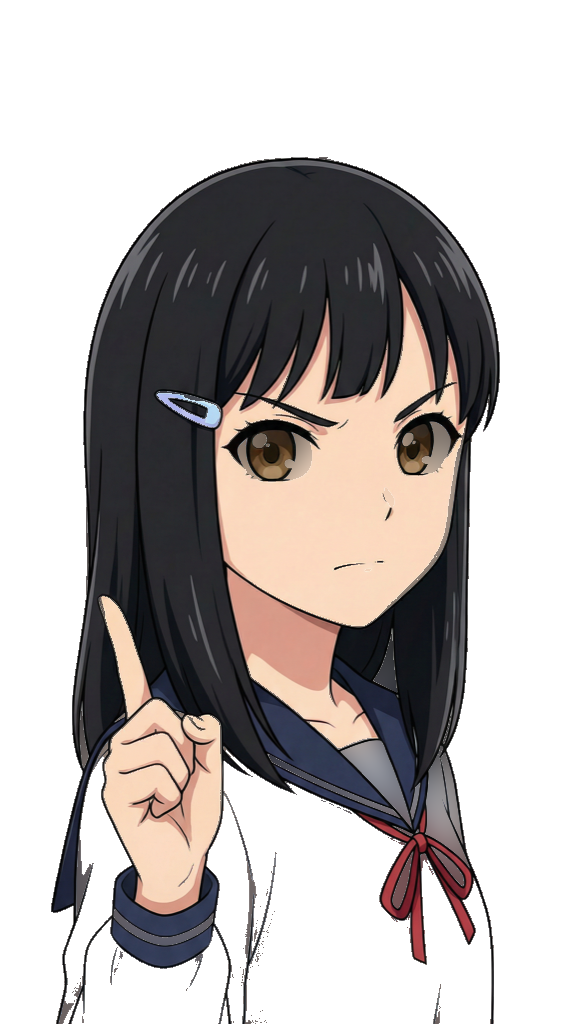
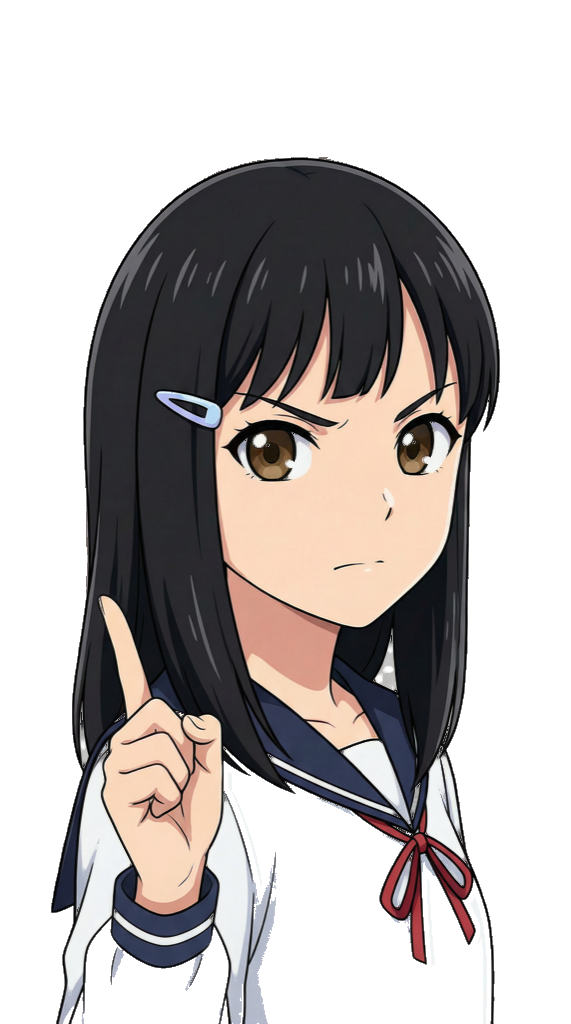
キャラ画像修正: 目の白目保護+チェッカー除去+キャッシュバスターv17

diff --git a/index.html b/index.html
@@ -3318,7 +3318,7 @@ var NovelEngine = {
         var src = folder + line.speaker + '_' + line.expr + '.png';
         if (!self._imageCache[src]) {
           var img = new Image();
-          img.src = src + '?v=16';
+          img.src = src + '?v=17';
           self._imageCache[src] = img;
         }
       }
@@ -3424,7 +3424,7 @@ var NovelEngine = {
     var info = this.SPEAKERS[line.speaker];
     if (!info) return;
     var folder = (line.speaker === 'bousai') ? 'characters/shared/' : 'characters/stage' + (GAME.stageNum || 1) + '/';
-    var src = folder + line.speaker + '_' + (line.expr || 'normal') + '.png?v=16';
+    var src = folder + line.speaker + '_' + (line.expr || 'normal') + '.png?v=17';
 
     // ボウサイキャラのサイズ調整クラス
     this.charaLeft.classList.remove('chara-bousai');
